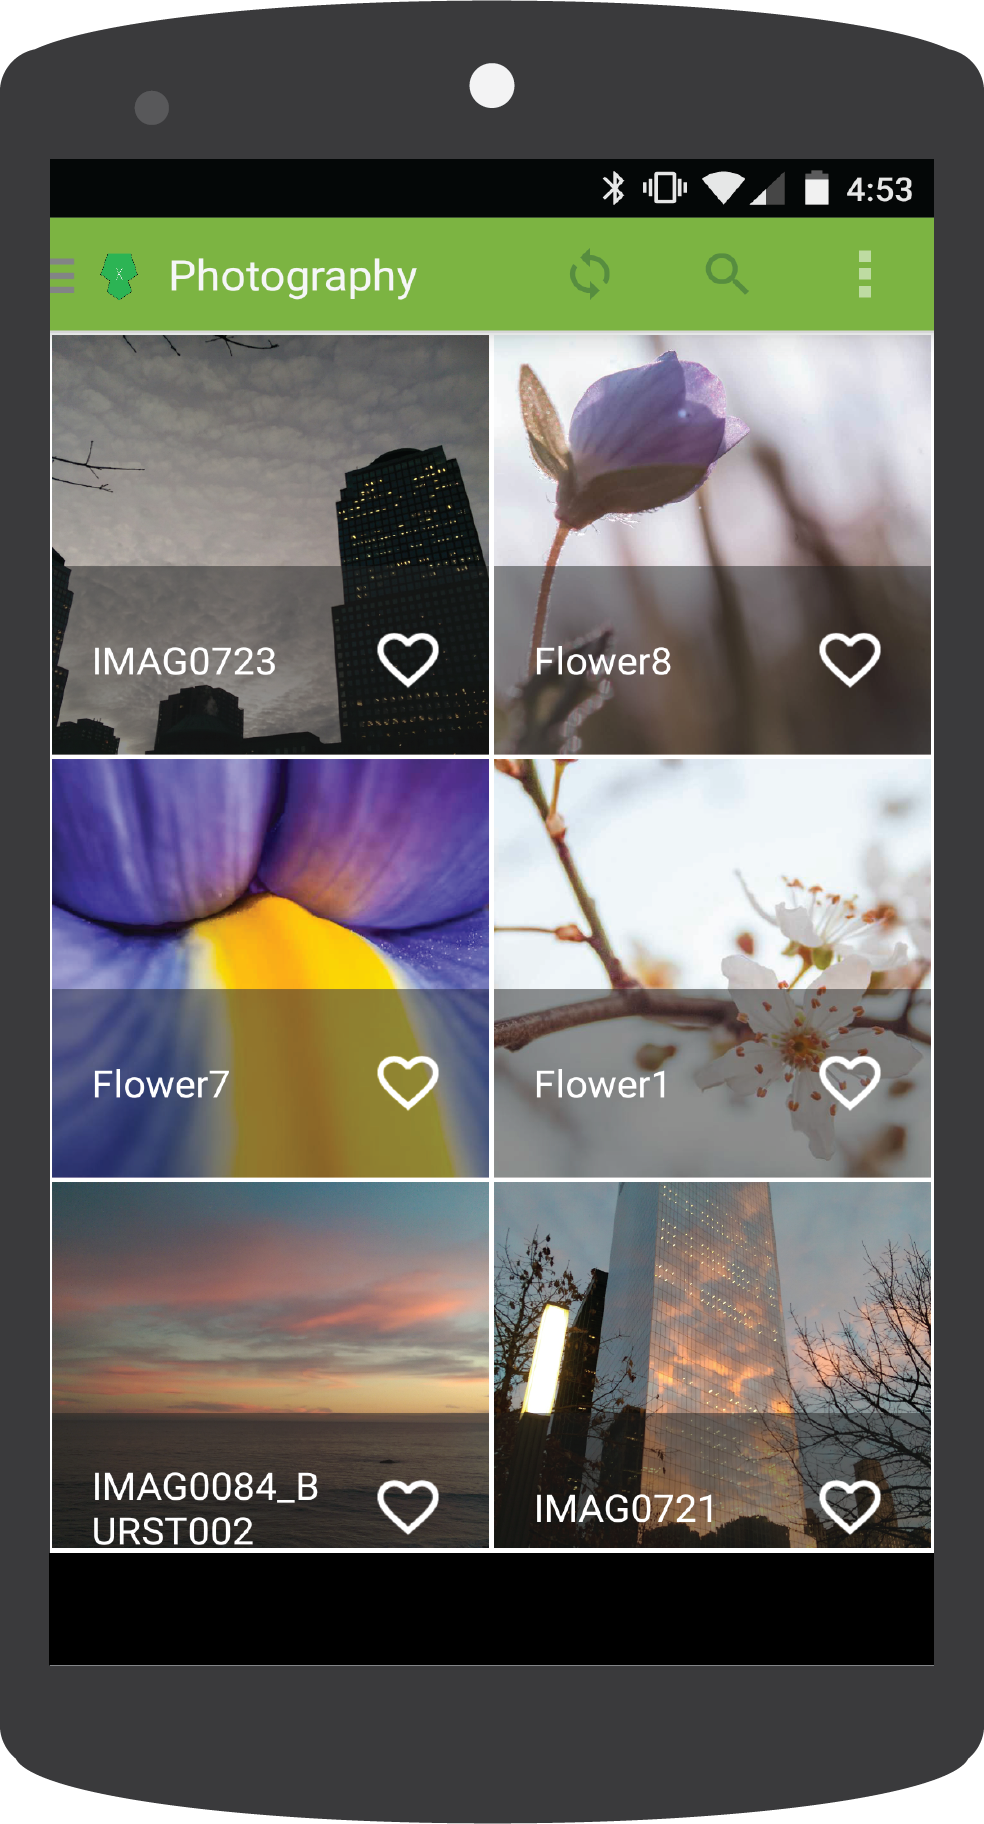
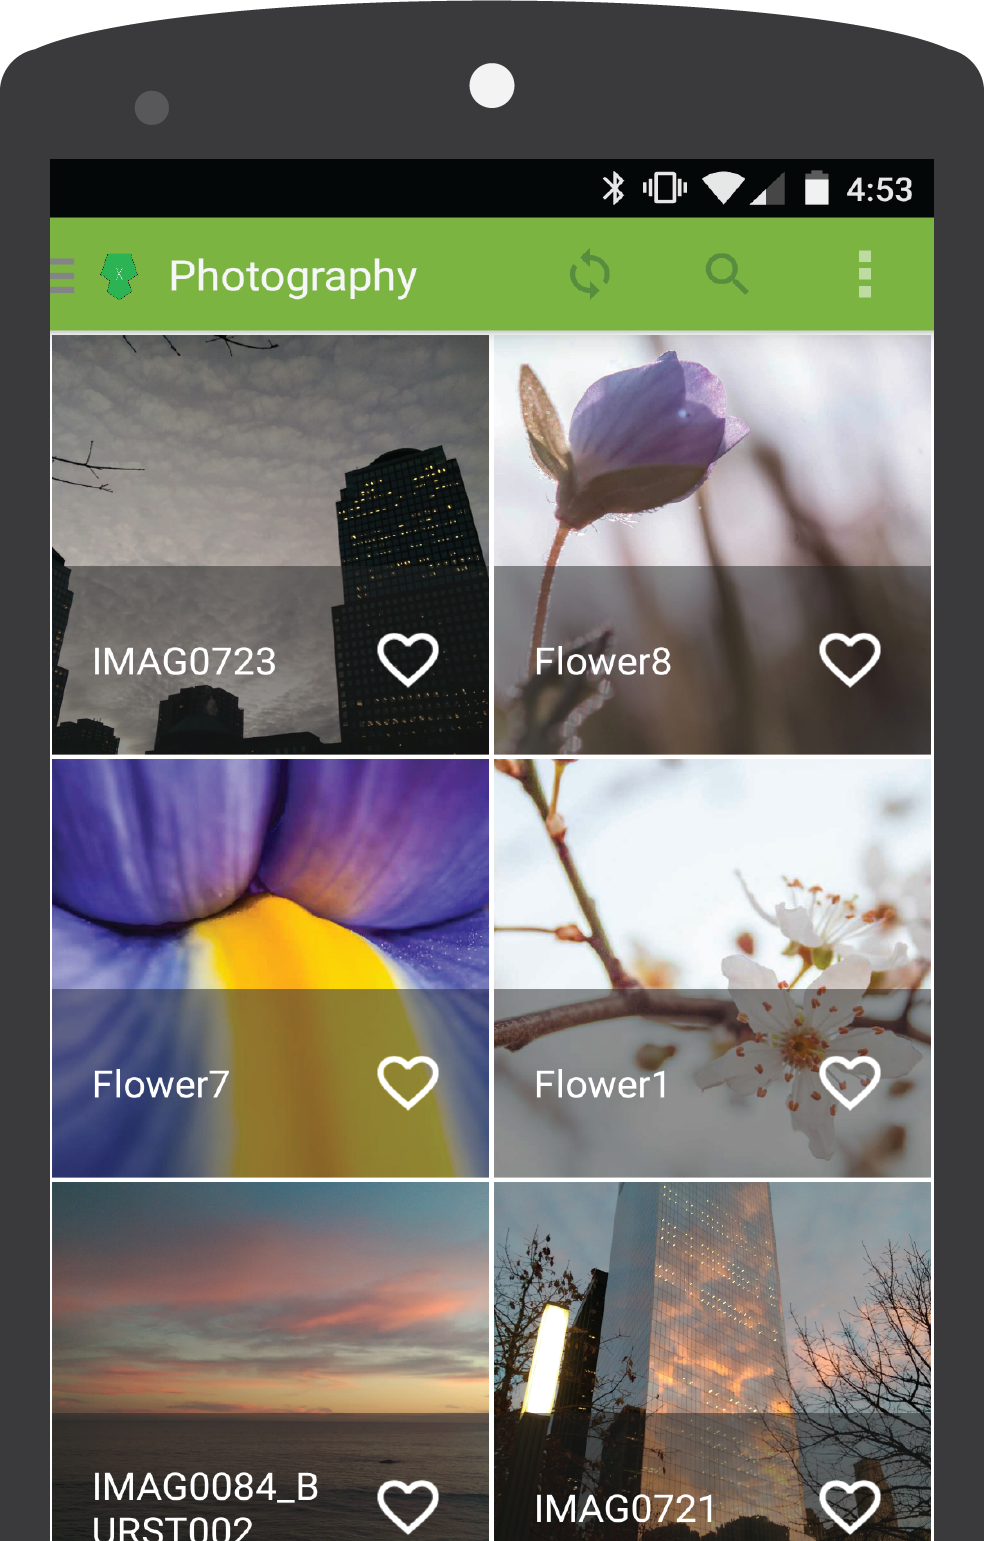
height fix

diff --git a/index.html b/index.html
@@ -71,13 +71,14 @@
         img.nexus {
             position: absolute;
             width: 325px;
-            height: 600px;
+            height: 520px;
             top: 41vh;
             left: 50%;
             transform: translate(-50%, 0);
             -webkit-transform: translate(-50%, 0);
             -moz-transform: translate(-50%, 0);
             -ms-transform: translate(-50%, 0);
+            z-index: 3;
         }
         h2.heading {
             font-weight: 300;
@@ -166,6 +167,342 @@
             background-size: cover;
             background-position: center;
             display: none;
+            position: relative;
+            z-index: 4;
+        }
+        
+        section.pre {
+            width: 100vw;
+            min-width: 100vw;
+            max-width: 100vw;
+            height: 85vh;
+        }
+        section.pre div {
+            height: 85vh;
+            width: 50vw;
+            float: left;
+        }
+        section.pre div:last-child {
+            background-color:#00BA53;
+            width: 55vw;
+            overflow-y: scroll;
+            color: white;
+        }
+        section.pre div:last-child h2{
+            font-weight: 300;
+            font-size: 1.5em;
+            margin-left: 6vw;
+            margin-right: 6vw;
+            margin-top: 8vh;
+            letter-spacing: 3px;
+        }
+        section.pre div:last-child p{
+            font-weight: 300;
+            font-size: 1.2em;
+            margin-left: 6vw;
+            margin-right: 6vw;
+            margin-top: 15vh;
+            line-height: 250%;
+        }
+        section.pre div:first-child {
+            background: black;
+            width: 45vw;
+            background-image: url(img/StripedDownGradient.png);
+            background-size: cover;
+            background-position: center;
+        }
+        section.pre div:last-child::-webkit-scrollbar { width: 0 !important }
+        
+        div.second {
+            width: 100vw;
+            height: 85vw;
+            background-image: url(img/StripedDownGradient.png);
+            background-size: cover;
+            background-position: center;
+            display: none;
+        }
+        
+        @media screen and (max-width: 1060px) {
+            section.about div:first-child p{
+                font-weight: 300;
+                font-size: 1.2em;
+                margin-left: 6vw;
+                margin-right: 6vw;
+                margin-top: 3vh;
+                line-height: 160%;
+            }
+            h2.getIt span {
+                display: none;
+            }
+        }
+
+        @media screen and (max-width: 768px) {
+            section.about div:first-child {
+                float: left;
+                width: 100vw;
+            }
+            section.about div:first-child p{
+                font-weight: 300;
+                font-size: 1.2em;
+                margin-left: 6vw;
+                margin-right: 6vw;
+                margin-top: 6vh;
+                line-height: 150%;
+            }
+            section.about div:last-child {
+                display: none;
+            }
+            section.pre {
+                width: 100vw;
+            }
+            section.pre div {
+                height: 85vh;
+                width: 50vw;
+            }
+            section.pre div:last-child {
+                background-color:#00BA53;
+                min-width: 100vw;
+                overflow-y: scroll;
+                color: white;
+            }
+            section.pre div:last-child p{
+                font-weight: 300;
+                font-size: 1.2em;
+                margin-left: 6vw;
+                margin-right: 6vw;
+                margin-top: 6vh;
+                line-height: 150%;
+            }
+
+            section.pre div:first-child {
+                display: none;
+            }
+            div.first {
+                display: block;
+            }
+            div.second {
+                display: block;
+            }
+        }
+    </style>
+</head>
+<body>
+    
+    <core-toolbar class="medium">
+        <img src="img/ic_launcher.png" width="75px" height="75px">
+        <h1>CLIV</h1>
+    </core-toolbar>
+    
+    <main>
+        <section class="head">
+            <div class="mainImage"></div>
+            <h2 class="heading">Modern Wallpapers</h2>
+            <img class="nexus" src="img/nexus5.png">
+        </section>
+        <section class="subhead">
+            <h2>Get it Now on Google Play</h2>
+            <a href="https://play.google.com/store/apps/details?id=com.elifinn.android.wallpapers&hl=en" target="_blank"><img src="img/google-play-icon.png" width="220px" height="70px;"></a>
+        </section>
+        <div class="first"><!-- IMAGE DO NOT USE--></div>
+        <section class="about" horizontal layout>
+            <div>
+                <h2>ABOUT</h2>
+                <p>
+                    Lorem ipsum dolor sit amet, consectetur adipiscing elit. Etiam auctor magna nisi, efficitur consequat ante efficitur sed. Cras mattis justo lorem, vitae cursus nulla tincidunt et. Mauris at pretium sem. Donec faucibus elit et nisi faucibus, id fermentum tellus iaculis. Aliquam placerat sed erat sed lobortis. Donec facilisis purus venenatis justo pellentesque, vel feugiat orci auctor. Vestibulum sit amet aliquet lectus. Praesent convallis eget mi quis bibendum. Morbi sit amet quam lectus.
+                </p>
+            </div>
+            <div><!-- IMAGE DO NOT USE--></div>
+        </section>
+        <div class="second"><!-- IMAGE DO NOT USE--></div>
+        <section class="pre" horizontal layout>
+            <div><!-- IMAGE DO NOT USE--></div>
+            <div>
+                <h2>PREMIUM</h2>
+                <p>
+                    Nulla facilisi. Mauris tincidunt placerat elit, quis pharetra elit sodales non. Maecenas non pharetra velit, non porta lacus. Nam a erat sit amet nibh consequat luctus vestibulum in sem. Cras rhoncus interdum sapien, sit amet posuere risus ornare quis. In pharetra dolor ut lobortis dapibus. Integer feugiat eu enim vitae vehicula. Donec sollicitudin, elit mattis sagittis malesuada, ante dui rhoncus risus, tincidunt faucibus ex quam dictum enim. Aenean luctus, velit vitae aliquam hendrerit, urna erat tempor felis, vel rutrum massa nibh vitae enim. Cras vitae feugiat est. Nam ac vestibulum ex, at imperdiet mauris. Mauris ultricies ut justo eget gravida. Fusce consequat justo sed gravida varius. Nullam sollicitudin, neque vel lobortis rutrum, nisl mauris elementum libero, id viverra sem odio at felis. Praesent cursus eros non tellus suscipit vehicula. Nullam et lectus tempor eros porta vulputate id ut nulla.
+                </p>
+            </div>
+        </section>
+    
+    </main>
+    
+    <footer> 
+    
+    
+    
+    </footer>     
+</body>
+</html><!doctype html>
+<html lang="en">
+<head>
+    <meta charset="UTF-8">
+    <meta http-equiv="X-UA-Compatible" content="IE=edge,chrome=1">
+    <meta name="viewport" content="width=device-width, initial-scale=1.0">
+    <title>CLIV APP</title>
+    <link href='http://fonts.googleapis.com/css?family=Roboto:400,100,300,500,700,900italic' rel='stylesheet' type='text/css'>
+    <link rel="icon" href="img/favicon.ico">
+    <script src="bower_components/platform/platform.js"></script>
+    <script src="bower_components/webcomponentsjs/webcomponents.js"></script>
+    <link rel="import" href="bower_components/polymer/polymer.html">
+    <link rel="import" href="elements.html">
+    
+    <style shim-shadowdom>
+        html, body {
+            margin: 0px;
+        }
+        body {
+            height: 100%;
+            font-family: 'Roboto', sans-serif;
+            background-color: white;
+            overflow-x: hidden;
+        }
+        core-toolbar.medium {
+            height: 150px;
+            width: 100vw;
+            background-color: #FAFAFA;
+            box-shadow: 0 2px 10px 0 rgba(0, 0, 0, 0.16), 0 2px 5px 0 rgba(0, 0, 0, 0.26);
+            -webkit-box-shadow: 0 2px 10px 0 rgba(0, 0, 0, 0.16), 0 2px 5px 0 rgba(0, 0, 0, 0.26);
+            -moz-box-shadow: 0 2px 10px 0 rgba(0, 0, 0, 0.16), 0 2px 5px 0 rgba(0, 0, 0, 0.26);
+            position: fixed;
+            z-index: 9;
+            
+        }
+        core-toolbar.medium img {
+            position: absolute;
+            left: 50%;
+            transform: translate(-50%, 0);
+            -webkit-transform: translate(-50%, 0);
+            -moz-transform: translate(-50%, 0);
+            -ms-transform: translate(-50%, 0);
+            top: 10px;
+        }
+        core-toolbar.medium h1 {
+            position: absolute;
+            left: 50%;
+            transform: translate(-50%, 0);
+            -webkit-transform: translate(-50%, 0);
+            -moz-transform: translate(-50%, 0);
+            -ms-transform: translate(-50%, 0);
+            top: 85px;
+            font-weight: 300;
+            letter-spacing: 13px;
+            color: #616161;
+            font-size: 1.5em;
+        }
+        section.head {
+            width: 100vw;
+            height: 75vh;
+            padding-top: 150px;
+            overflow:hidden;
+        }
+        div.mainImage {
+            width: 100%;
+            height: 75vh;
+            background-image: url(img/splash_background.png);
+            background-position: center;
+            background-size: cover;
+        }
+        img.nexus {
+            position: absolute;
+            width: 325px;
+            height: 520px;
+            top: 41vh;
+            left: 50%;
+            transform: translate(-50%, 0);
+            -webkit-transform: translate(-50%, 0);
+            -moz-transform: translate(-50%, 0);
+            -ms-transform: translate(-50%, 0);
+            z-index: 3;
+        }
+        h2.heading {
+            font-weight: 300;
+            width: 242px;
+            min-width: 242px;
+            position: absolute;
+            top: 25vh;
+            color: white;
+            left: 50%;
+            transform: translate(-50%, 0);
+            -webkit-transform: translate(-50%, 0);
+            -moz-transform: translate(-50%, 0);
+            -ms-transform: translate(-50%, 0);
+            font-size: 1.8em;
+        }
+        section.subhead {
+            width: 100vw;
+            height: 40vh;
+            background: white;
+            position: relative;
+            z-index: 5;
+            box-shadow: 0 2px 10px 0 rgba(0, 0, 0, 0.16), 0 2px 5px 0 rgba(0, 0, 0, 0.26);
+            -webkit-box-shadow: 0 2px 10px 0 rgba(0, 0, 0, 0.16), 0 2px 5px 0 rgba(0, 0, 0, 0.26);
+            -moz-box-shadow: 0 2px 10px 0 rgba(0, 0, 0, 0.16), 0 2px 5px 0 rgba(0, 0, 0, 0.26);
+        }
+        section.subhead h2 {
+            font-weight: 300;
+            text-align: center;
+            font-size: 1.8em;
+            padding-top: 7vh;
+            margin: 0px;
+        }
+        section.subhead img {
+            position: absolute;
+            padding-top: 6vh;
+            left: 50%;
+            transform: translate(-50%, 0);
+            -webkit-transform: translate(-50%, 0);
+            -moz-transform: translate(-50%, 0);
+            -ms-transform: translate(-50%, 0);
+        }
+        section.about {
+            width: 100vw;
+            height: 85vh;
+        }
+        section.about div {
+            height: 85vh;
+            width: 50vw;
+        }
+        section.about div:first-child {
+            float: left;
+            background-color:#00BA53;
+            width: 45vw;
+            overflow-y: scroll;
+            color: white;
+        }
+        section.about div:first-child::-webkit-scrollbar { width: 0 !important }
+        section.about div:first-child h2{
+            font-weight: 300;
+            font-size: 1.5em;
+            margin-left: 6vw;
+            margin-right: 6vw;
+            margin-top: 8vh;
+            letter-spacing: 3px;
+        }
+        section.about div:first-child p{
+            font-weight: 300;
+            font-size: 1.2em;
+            margin-left: 6vw;
+            margin-right: 6vw;
+            margin-top: 15vh;
+            line-height: 250%;
+        }
+        section.about div:last-child {
+            float: right;
+            background: black;
+            width: 55vw;
+            background-image: url(img/Travel7.jpg);
+            background-size: cover;
+            background-position: center;
+        }
+        div.first {
+            width: 100vw;
+            height: 85vw;
+            background-image: url(img/Travel7.jpg);
+            background-size: cover;
+            background-position: center;
+            display: none;
+            position: relative;
+            z-index: 4;
         }
         
         section.pre {
